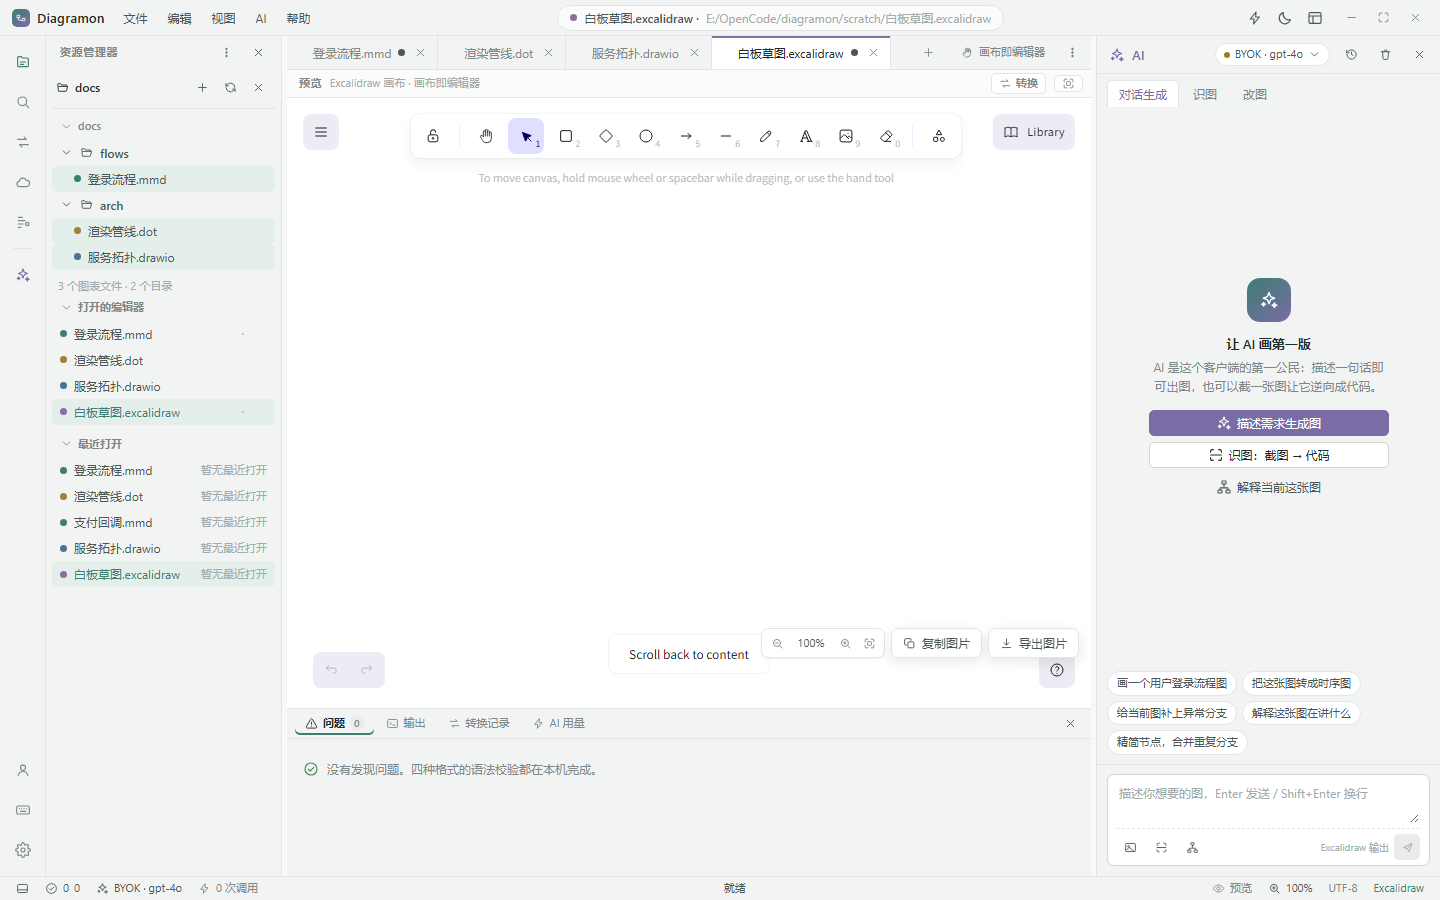
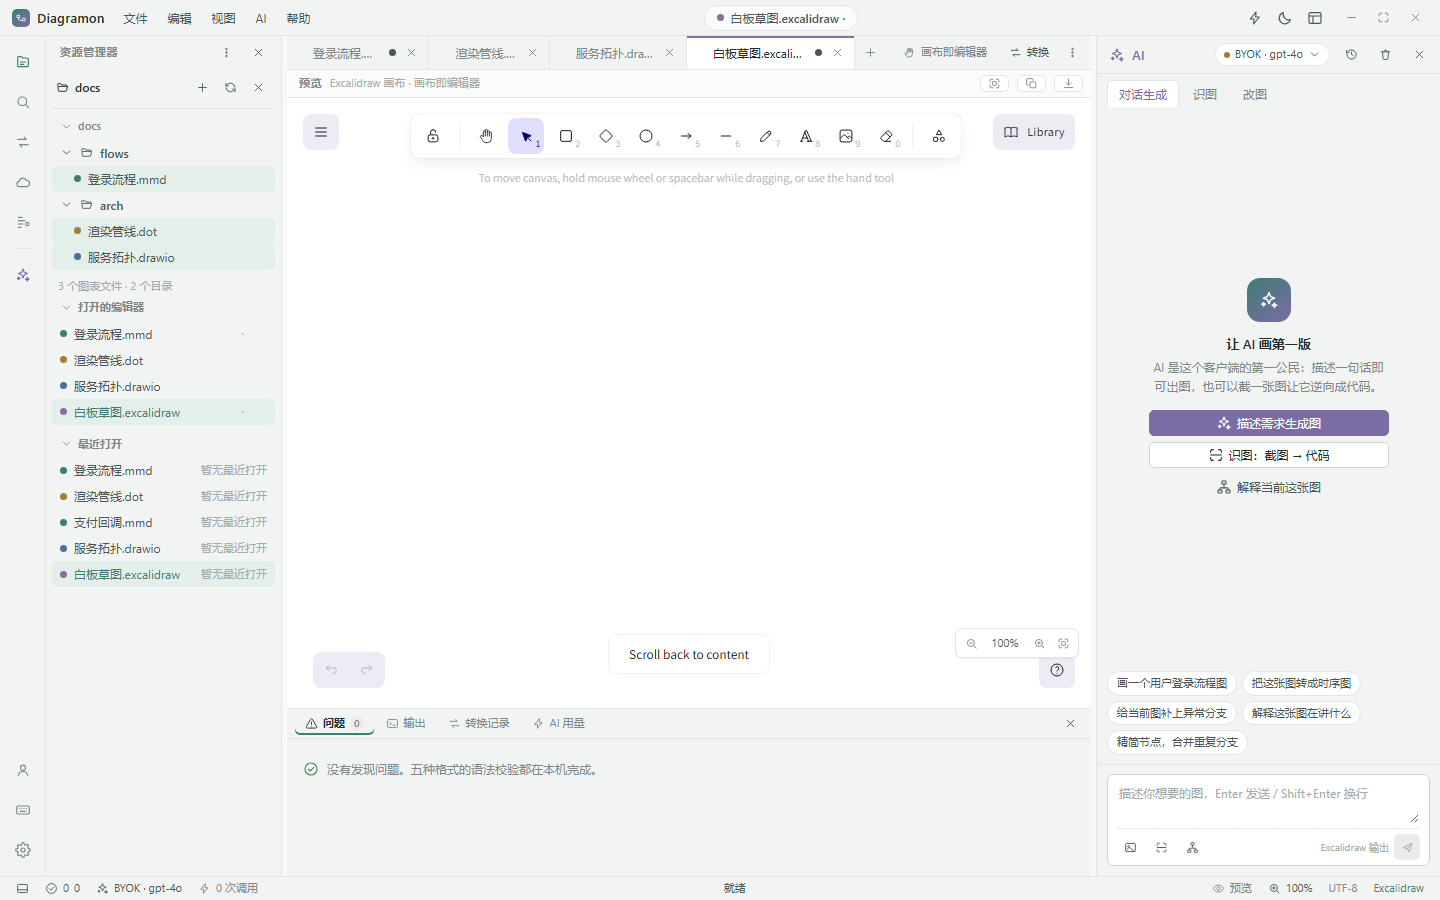
docs(readme): 补 D2 截图（readme_shots 支持 /d2 挂载 + 就绪轮询）
- `tools/dev/readme_shots.py`：MOUNTS 加 `/d2/`（入口是 index.js 而不是 index.html），
  挂载点入口抽成 MOUNT_ENTRY（与 crates/assets 同口径，兜底请求与"资产在不在位"共用）；
  PLAN 改成 5 元组，多一个「就绪表达式」并补 `wait_expr()` 轮询。
- 新截图 `08-d2-preview.png`：现场建一份 `.d2`（正文画的是本应用自己的渲染管线，顺便展示
  容器 / 形状 / 类样式 / 虚线边），等 `#canvas-stage` 的 `data-engine` 变成 `d2` 再截 ——
  只判「舞台上有 SVG」会截到加载态，因为默认文档先渲染出来的那份 SVG 也在同一个舞台上。
- 其余 7 张按现行界面重新生成（标签条上的「转换」入口、问题面板文案等都已经变了）。
- README 中英两版都加上这张图。

不重新发版：截图只在仓库里给 README 用（不进安装包）。注意上一条 `fix(i18n)` 改的是
`ui/js/i18n.js` 里的界面文案 —— 那部分会随**下一次打包**进安装包，所以 3.5.0 安装包里的
问题面板仍写着「四种格式」。要让它立刻生效就得再发一版（本次未做）。

diff --git a/tools/dev/readme_shots.py b/tools/dev/readme_shots.py
@@ -8,11 +8,12 @@
 跑出与真机同一套界面代码。标题栏那个「mock 模式」徽标是"没检测到 Tauri 运行时"
 的提示，真机不存在 —— 截图前显式切到 no-mock 类把它收起来（不改源码）。
 
-映射规则与 crates/assets::resolve 相同：/drawio /excalidraw /graphviz /mermaid
+映射规则与 crates/assets::resolve 相同：/drawio /excalidraw /graphviz /mermaid /d2
 落挂载点，其余落 ui/。
 
 产物：client2/screenshots/*.png
-依赖：本机 Chrome/Edge；websocket-client；画布资产在 `tools/`（缺失只跳过画布那张）。
+依赖：本机 Chrome/Edge；websocket-client；渲染运行时在 `tools/`
+（drawio / excalidraw 不在位就跳过画布两张，D2 不在位就跳过 D2 那张）。
 """
 
 from __future__ import annotations
@@ -56,26 +57,87 @@ MOUNTS = {
     "excalidraw": _mount(("tools", "excalidraw")),
     "graphviz": _mount(("tools", "graphviz")),
     "mermaid": _mount(("tools", "mermaid")),
+    # D2 的入口是 index.js 不是 index.html（wasm 以内联 base64 藏在里面）—— 前端按
+    # `/d2/index.js` 取，所以这条映射只服务那一个请求
+    "d2": _mount(("tools", "d2")),
+}
+
+# 挂载点 → 入口文件。判「资产在不在位」与兜底请求（`/drawio/` 这种不带文件名的）都看它，
+# 与 `crates/assets` 的 MOUNT_ENTRY 同一口径。
+MOUNT_ENTRY = {
+    "drawio": "index.html",
+    "excalidraw": "index.html",
+    "graphviz": "graphviz.js",
+    "mermaid": "mermaid.min.js",
+    "d2": "index.js",
 }
 
 WIDTH, HEIGHT = 1440, 900
 
-# 每张 = (文件名, URL 查询串, 截图前的 JS, 额外等待秒)
+# 每张 = (文件名, URL 查询串, 截图前的 JS, 额外等待秒, 截图前的就绪表达式)
 # 查询串走的是 main.js::applyUrlState 认的那几个参数（theme/doc/mode/sidebar/…）。
-PLAN: list[tuple[str, str, str, float]] = [
+# 就绪表达式为空时只按「额外等待秒」等；非空时**轮询它**（D2 那张要等 wasm 实例化，
+# 固定睡几秒要么截到加载态、要么白等）。
+PLAN: list[tuple[str, str, str, float, str]] = [
     # 01–05 显式带 sidebar=explorer：这几张的取景就是「带资源管理器」的工作台，
     # 不跟默认布局走 —— 侧栏默认收起（2026-10-12）后不加这个参数截图会悄悄变样。
-    ("01-main-light.png", "doc=0&theme=light&noai=1&sidebar=explorer", "", 2.0),
-    ("02-ai-vision.png", "doc=0&theme=light&sidebar=explorer", "DGM.ai.focus('vision');", 2.0),
-    ("03-drawio-canvas.png", "doc=2&theme=light&sidebar=explorer", "", 12.0),
-    ("04-excalidraw-canvas.png", "doc=3&theme=light&sidebar=explorer", "", 14.0),
-    ("05-dark-preview.png", "doc=0&theme=dark&mode=preview&sidebar=explorer", "", 3.0),
-    ("06-cloud-docs.png", "mockcloud=signed&sidebar=cloud&theme=light&noai=1", "", 2.0),
-    ("07-cloud-account.png", "mockcloud=signed&sidebar=account&theme=light&noai=1", "", 2.0),
+    ("01-main-light.png", "doc=0&theme=light&noai=1&sidebar=explorer", "", 2.0, ""),
+    ("02-ai-vision.png", "doc=0&theme=light&sidebar=explorer", "DGM.ai.focus('vision');", 2.0, ""),
+    ("03-drawio-canvas.png", "doc=2&theme=light&sidebar=explorer", "", 12.0, ""),
+    ("04-excalidraw-canvas.png", "doc=3&theme=light&sidebar=explorer", "", 14.0, ""),
+    ("05-dark-preview.png", "doc=0&theme=dark&mode=preview&sidebar=explorer", "", 3.0, ""),
+    ("06-cloud-docs.png", "mockcloud=signed&sidebar=cloud&theme=light&noai=1", "", 2.0, ""),
+    ("07-cloud-account.png", "mockcloud=signed&sidebar=account&theme=light&noai=1", "", 2.0, ""),
+    # D2：正文现场建（mock 的初始文档里没有 .d2），等预览真的挂上 SVG 再截
+    (
+        "08-d2-preview.png",
+        "theme=light&sidebar=explorer&noai=1",
+        "window.__shot = (async () => {"
+        "  const d = await DGM.state.newDoc('d2');"
+        "  await DGM.state.setBodyNow(d.id, window.__D2_SAMPLE);"
+        "  DGM.editor.loadActive();"
+        "  await DGM.preview.render();"
+        "})();",
+        0.5,
+        # 只看 `#canvas-stage svg` 是不够的：页面一进来就先把默认的 mermaid 文档渲染出来了，
+        # 那个 SVG 也在同一个舞台上 —— 于是"就绪"会立刻为真，截到的是 D2 的加载态。
+        # `mountSvg` 会给舞台打上 `data-engine=<格式>`，用它才认得出"这次挂的是 D2"。
+        "document.querySelector('#canvas-stage').dataset.engine === 'd2'"
+        " && !!document.querySelector('#canvas-stage svg')",
+    ),
 ]
 
-# 截图画布那两张需要资产在位；不在位就跳过而不是失败。
-NEEDS_ASSETS = {"03-drawio-canvas.png", "04-excalidraw-canvas.png"}
+# 截图需要资产在位；不在位就跳过而不是失败。
+NEEDS_ASSETS = {
+    "03-drawio-canvas.png": "drawio",
+    "04-excalidraw-canvas.png": "excalidraw",
+    "08-d2-preview.png": "d2",
+}
+
+# D2 那张用的正文：把 Diagramon 自己的管线画一遍（顺便展示容器 / 形状 / 类样式 / 虚线边）
+D2_SAMPLE = """direction: right
+classes: {
+  wasm: { style: { fill: "#eef3f9"; stroke: "#4a7196" } }
+}
+客户端: {
+  direction: down
+  源码窗口: "源码"
+  预览窗口: "预览"
+  源码窗口 -> 预览窗口: "实时"
+}
+网关: "离线?"
+网关.shape: diamond
+本地引擎: "D2 wasm"
+本地引擎.class: wasm
+云网关: "云模型"
+云网关.class: wasm
+数据库: "结果缓存"
+数据库.shape: cylinder
+客户端 -> 网关: "图表代码"
+网关 -> 本地引擎: "是" { style.stroke-dash: 3 }
+网关 -> 云网关: "否（仅 AI）"
+本地引擎 -> 数据库
+"""
 
 
 def log(msg: str = "") -> None:
@@ -98,7 +160,7 @@ def make_handler():
                     # 承载页归本仓库（源工作树里那份是停更的旧副本）：与 canvas_probe.py 同一条规矩
                     return str(ROOT / "tools" / "excalidraw-host" / "index.html")
                 if len(segs) == 1 or not segs[1]:
-                    return str(MOUNTS[first] / "index.html")
+                    return str(MOUNTS[first] / MOUNT_ENTRY[first])
                 return str(MOUNTS[first].joinpath(*segs[1:]))
             rest = clean.lstrip("/") or "index.html"
             return str(UI / rest)
@@ -166,6 +228,19 @@ def wait_ready(cdp: Cdp, timeout: float = 25.0) -> bool:
     return False
 
 
+def wait_expr(cdp: Cdp, expr: str, timeout: float = 30.0) -> bool:
+    """轮询一个就绪表达式（等着色/渲染完成时用它，别用固定 sleep）。"""
+    deadline = time.time() + timeout
+    while time.time() < deadline:
+        try:
+            if cdp.evaluate(expr, timeout=5):
+                return True
+        except Exception:
+            pass
+        time.sleep(0.4)
+    return False
+
+
 def shoot(cdp: Cdp, name: str) -> None:
     cdp.call("Page.enable", timeout=20)
     cdp.call(
@@ -192,9 +267,11 @@ def main() -> int:
         log("✗ 找不到 Chrome/Edge")
         return 2
 
-    have_drawio = (MOUNTS["drawio"] / "index.html").is_file()
-    if not have_drawio:
-        log(f"（drawio 资产不在位：{MOUNTS['drawio']} —— 跳过画布那张）")
+    # 需要资产的那几张：入口不在位就跳过（而不是截出一张报错图）
+    missing = {m for m in NEEDS_ASSETS.values() if not (MOUNTS[m] / MOUNT_ENTRY[m]).is_file()}
+    for name, mount in NEEDS_ASSETS.items():
+        if mount in missing:
+            log(f"（{mount} 资产不在位：{MOUNTS[mount]} —— 跳过 {name}）")
 
     server = ThreadingHTTPServer(("127.0.0.1", 0), make_handler())
     ui_port = server.server_address[1]
@@ -250,8 +327,9 @@ def main() -> int:
         cdp.call("Page.enable", timeout=10)
 
         made = 0
-        for name, query, js, extra in PLAN:
-            if name in NEEDS_ASSETS and not have_drawio:
+        for name, query, js, extra, ready in PLAN:
+            need = NEEDS_ASSETS.get(name)
+            if need and need in missing:
                 continue
             url = f"http://127.0.0.1:{ui_port}/index.html?{query}"
             cdp.call("Page.navigate", {"url": url}, timeout=20)
@@ -261,10 +339,14 @@ def main() -> int:
             time.sleep(extra)
             if js:
                 try:
+                    # D2 那张的正文从这里注入，免得在 JS 字符串里塞一大段中文正文
+                    cdp.evaluate("window.__D2_SAMPLE = " + json.dumps(D2_SAMPLE) + ";", timeout=10)
                     cdp.evaluate(js, timeout=10)
                 except Exception as exc:
                     log(f"  （{name} 的预处理 JS 报错，照样截：{exc}）")
                 time.sleep(1.2)
+            if ready and not wait_expr(cdp, ready, timeout=45):
+                log(f"  （{name}：就绪表达式超时，按当前画面截）")
             try:
                 shoot(cdp, name)
                 made += 1

diff --git a/README.md b/README.md
@@ -32,6 +32,8 @@ Version **3.5.0** · Official website <https://www.diagramon.com>
 
 ![Account and AI credits](screenshots/07-cloud-account.png)
 
+![D2 preview](screenshots/08-d2-preview.png)
+
 ## Features
 
 ### Editing
